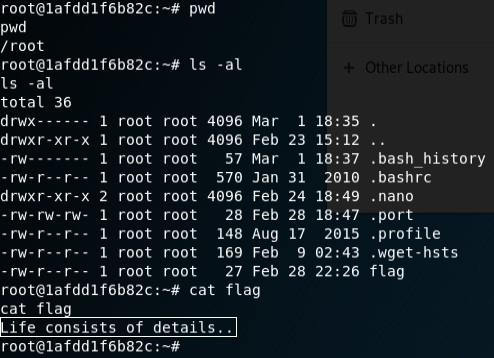
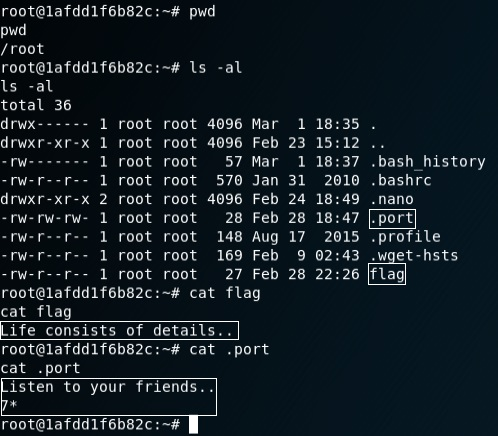
Continued hackinos-1 till trying to find real flag

diff --git a/hackinos-1.md b/hackinos-1.md
@@ -92,9 +92,14 @@ for ($i = 1; $i <= 100; $i++) {
 * Note: If you want to re-run the command to observe the process again, go to `.john` and delete `john.pot`.
 * Note: If you want to view the password again without repeating the above process, execute `john --show decryptthis.txt` (replacing the last part with your file name).
 * Now that we have our password, we will spawn our interactive shell with `python -c 'import pty; pty.spawn("/bin/bash")'`, then run `su`, entering the password `john`.
-* Next, we head to `/root`, and find that there is a file `flag`. However, that file only reveals to us a cryptic message, instead of the actual flag:
+* Next, we head to `/root`, and find that there is a file `flag`. However, that file only reveals to us a cryptic message, instead of the actual flag (I think?):
 ![](/screenshots/hackinos-1/flagInitial.jpg)
 * We have already gotten root access, but the flag still eludes us: we will have to find the flag elsewhere.
+* Opening up the other files on `/root` directory, the file `.port` holds another cryptic message as well. Have not much of an idea what the `7*` means as well.
+* I went back to the login page of the vulnerable VM, and checked for the username `hummingbirdscyber` against the `/etc/shadow` file, and did not find the username on the list. It seems like the username belongs to an account on another service of the vulnerable VM.
+* Running `ipconfig` on our vulnerable VM shows that the internal IP address is `172.18.0.3`:
+![](/screenshots/hackinos-1/vulnerableVMNetwork.jpg)
+
 * To-be-continued...
 
 # To-be-added subsequently #
